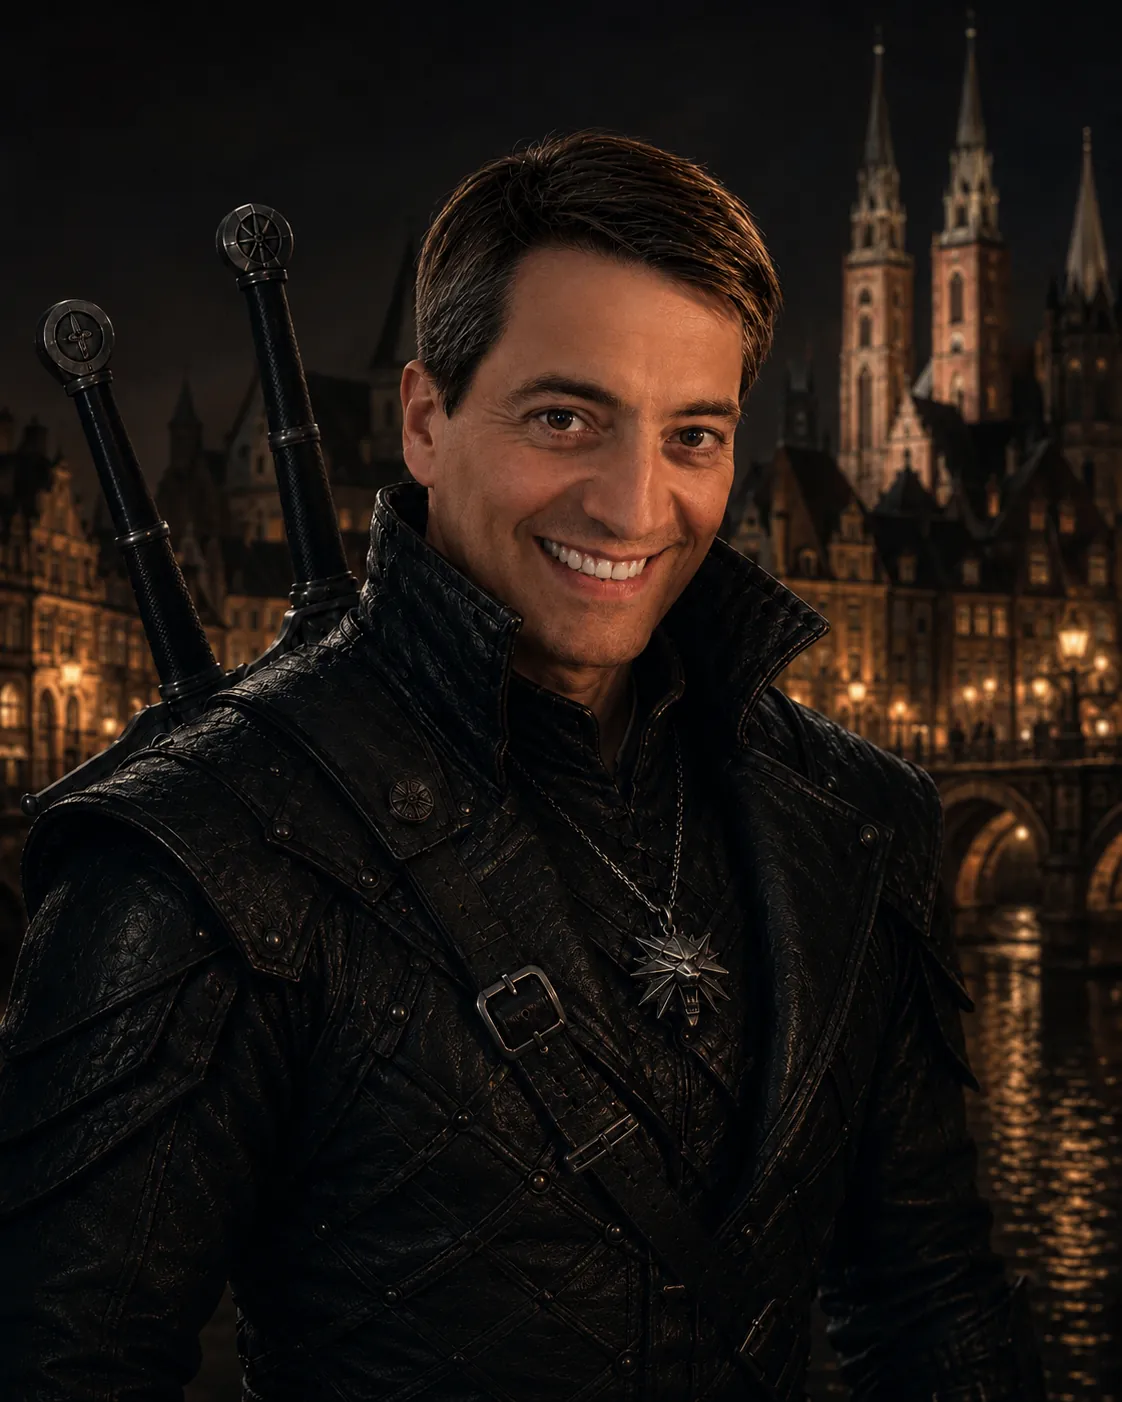
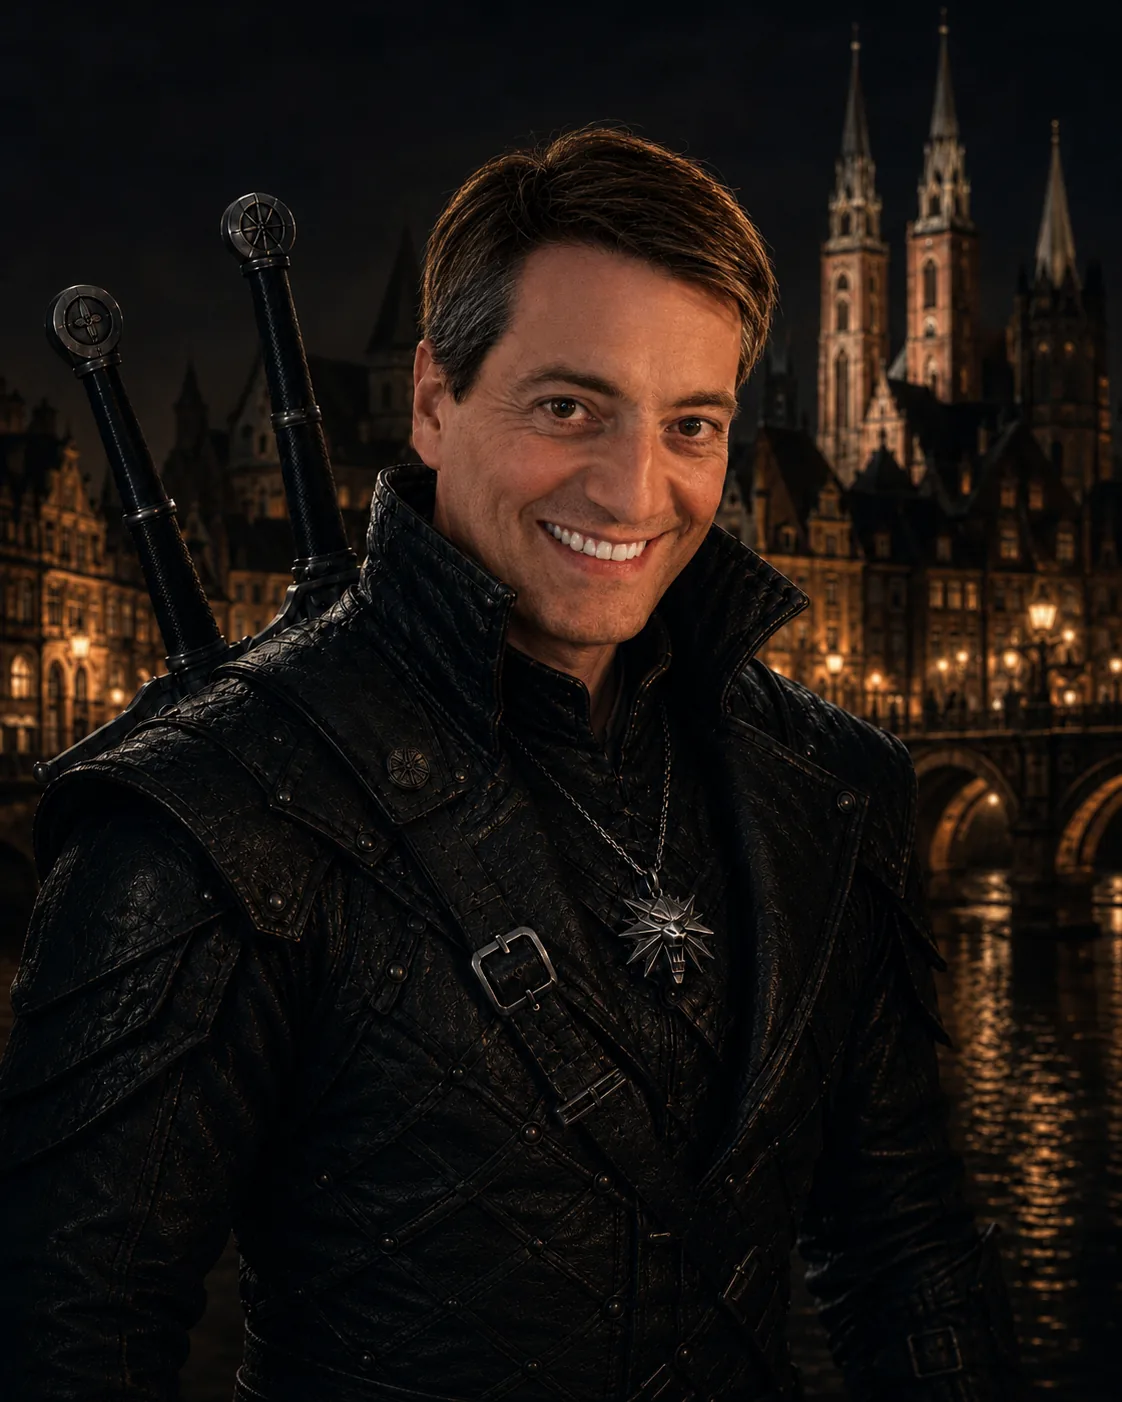
Nowe portrety v2 + CLAUDE.md wykluczony z publikacji
- Portrety v2 (jasny/ciemny) przekonwertowane na WebP 561w/1122w + JPEG
  fallback; źródłowe PNG w design/reference/
- .nojekyll zastąpiony przez _config.yml z listą exclude — pliki
  wewnętrzne (CLAUDE.md, README, PROJECT-BRIEF, design/) nie są już
  serwowane przez GitHub Pages
- CLAUDE.md: wskazówki dla przyszłych sesji (i18n, publikacja, pipeline
  obrazków)
- .gitignore: pliki *:Zone.Identifier i ovh-dns-zone.txt

diff --git a/CLAUDE.md b/CLAUDE.md
@@ -1,0 +1,49 @@
+# P3 Studio — wskazówki dla Claude Code
+
+Statyczna strona-wizytówka (https://www.p3studio.eu). Czysty HTML + CSS + vanilla JS —
+**bez frameworków, bez kroku budowania, bez Node, bez cookies/trackingu**. Nie dodawaj
+zależności ani build stepów.
+
+## Treść i języki
+
+- Treść **PL** jest wpisana na sztywno w `index.html` — edytuj ją tam.
+- Treść **EN** to mapa `EN` na górze `script.js`; klucze odpowiadają atrybutom
+  `data-i18n` w HTML. Trzy wyróżnione nagłówki mają osobną mapę `RICH_PL`.
+- Tekst podmieniany jest przez `textContent` (nigdy `innerHTML`) — zachowaj to.
+
+## Publikacja (GitHub Pages)
+
+- Deploy: legacy GitHub Pages z gałęzi `main`, katalog `/` (push = publikacja).
+- **Każdy plik w repo jest publicznie serwowany**, chyba że jest wykluczony w
+  `_config.yml` (`exclude:`). Pliki wewnętrzne (CLAUDE.md, README.md,
+  PROJECT-BRIEF.md, `design/`) są tam wykluczone — nowe pliki robocze dopisuj
+  do tej listy. Nie przywracaj `.nojekyll` — wyłączyłoby to wykluczenia.
+- `CNAME`, `robots.txt`, `sitemap.xml` muszą zostać w korzeniu.
+
+## Portrety (pipeline obrazków)
+
+Źródła leżą w `design/reference/` (aktualne: `portrait-light-v2.png`,
+`portrait-dark-v2.png`, 1122×1402, ~4:5). Strona używa 6 plików pochodnych w
+`assets/images/`: WebP 561w + 1122w (srcset) i JPEG 1122w (fallback), osobno
+dla motywu jasnego/ciemnego. Po podmianie źródła wygeneruj je przez ffmpeg
+(ImageMagick/cwebp nie są zainstalowane):
+
+```bash
+for theme in light dark; do
+  src="design/reference/portrait-$theme-v2.png"   # dopasuj nazwę źródła
+  ffmpeg -y -i "$src" -c:v libwebp -quality 82 -compression_level 6 "assets/images/portrait-$theme-1122.webp"
+  ffmpeg -y -i "$src" -vf "scale=561:701:flags=lanczos" -c:v libwebp -quality 82 -compression_level 6 "assets/images/portrait-$theme-561.webp"
+  ffmpeg -y -i "$src" -c:v mjpeg -q:v 3 -pix_fmt yuvj420p "assets/images/portrait-$theme.jpg"
+done
+```
+
+Wymiary (`width`/`height` w `index.html`) muszą zgadzać się ze źródłem, inaczej
+layout skacze. Oba motywy są w DOM jednocześnie i cross-fade'ują się przez CSS
+(`html[data-theme]`).
+
+## Różne
+
+- `design/` to materiały źródłowe z prototypu (React) — strona ich nie używa.
+- Pliki `*:Zone.Identifier` to śmieci z WSL/Windows — ignorowane w `.gitignore`,
+  można usuwać.
+- `ovh-dns-zone.txt` (eksport strefy DNS) ma pozostać poza repo (`.gitignore`).

diff --git a/README.md b/README.md
@@ -17,7 +17,7 @@ privacy.html        # polityka prywatności (PL) — SZABLON do uzupełnienia pr
 styles.css          # cały wygląd + @font-face (self-hosted)
 script.js           # motyw dzień/noc, przełącznik PL/EN, wideo hero, menu mobilne, animacje
 CNAME               # www.p3studio.eu  (domena dla GitHub Pages)
-.nojekyll           # wyłącza przetwarzanie Jekyll na GitHub Pages
+_config.yml         # lista plików WYKLUCZONYCH z publikacji (CLAUDE.md, README, design/…)
 robots.txt          # SEO
 sitemap.xml         # SEO (mapa strony)
 assets/
@@ -146,9 +146,11 @@ wąskim ekranie, wideo hero na szerokim ekranie. Warto też uruchomić **Lightho
    (plik `CNAME` w repo już to ustawia; GitHub zweryfikuje DNS).
 6. Po propagacji DNS zaznacz **Enforce HTTPS**.
 
-Plik `.nojekyll` jest w repo, więc GitHub nie przepuszcza strony przez Jekyll
-(ważne m.in. dla katalogów zaczynających się od podkreślenia i dla pełnej
-kontroli nad plikami).
+GitHub Pages przepuszcza repo przez Jekyll, ale pliki HTML/CSS/JS bez front
+matter są kopiowane 1:1 — strona pozostaje w pełni statyczna. Jekyll jest
+używany wyłącznie po to, by lista `exclude:` w **`_config.yml`** trzymała pliki
+wewnętrzne (CLAUDE.md, README.md, PROJECT-BRIEF.md, `design/`) poza publikowaną
+stroną. Nowe pliki robocze dopisuj do tej listy.
 
 ---
 
